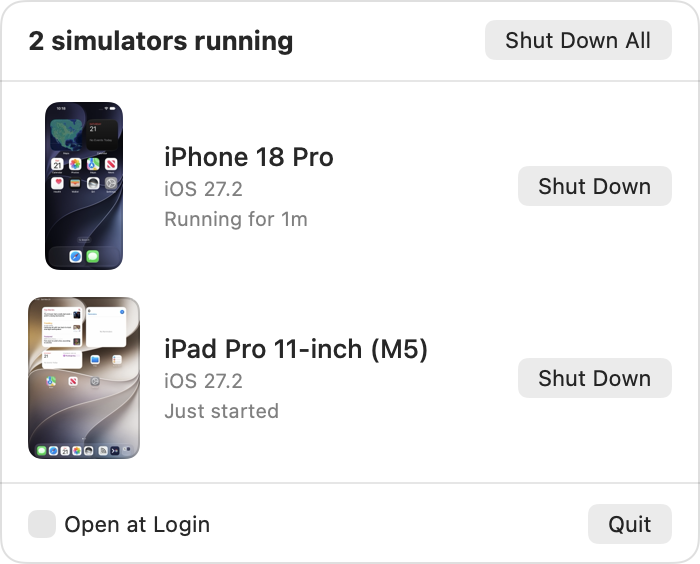
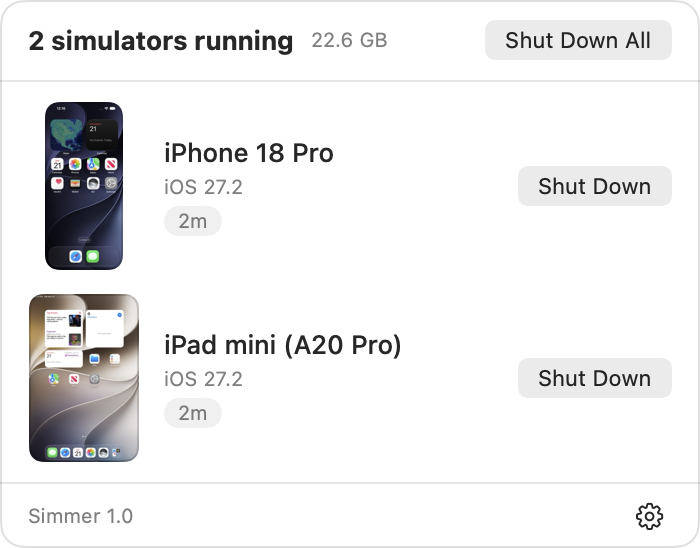
Update the README for the gem, the gear menu, and the disk image

diff --git a/README.md b/README.md
@@ -1,30 +1,32 @@
+<img src="docs/icon.png" width="96" alt="Simmer's icon, a green gem">
+
 # Simmer
 
 A tiny Mac menu bar app that shows which Xcode simulators are running, and lets you shut them down with one click.
 
-<img src="docs/menu.png" width="350" alt="Simmer's menu listing an iPhone and an iPad simulator, each with a picture of its screen and a Shut Down button">
+<img src="docs/menu.png" width="350" alt="Simmer's menu listing an iPhone and an iPad simulator, each with a picture of its screen, how long it has been running, and a Shut Down button">
 
 Simulators are easy to forget. Close the Simulator window, or let Xcode start one for a preview, and it can keep running out of sight for days, heating up your Mac and draining the battery. Simmer keeps a count in your menu bar so you always know.
 
 ## Install
 
-1. **[Download Simmer](https://github.com/mattbirchler/Simmer/releases/latest/download/Simmer.zip)**
-2. Open your Downloads folder and double-click **Simmer.zip**. A **Simmer** app appears next to it.
-3. Drag **Simmer** into your **Applications** folder.
+1. **[Download Simmer](https://github.com/mattbirchler/Simmer/releases/latest/download/Simmer.dmg)**
+2. Open **Simmer.dmg** from your Downloads folder. A window appears with Simmer on the left and your Applications folder on the right.
+3. Drag **Simmer** onto **Applications**.
 4. Open **Simmer** from Applications.
 
-That's it. Look for a small phone icon at the top right of your screen, near the clock. Simmer has no Dock icon and no window, so the menu bar is where it lives.
+That's it. Look for a small gem at the top right of your screen, near the clock. Simmer has no Dock icon and no window, so the menu bar is where it lives.
 
 Simmer needs macOS 14 or newer, and Xcode (which is where simulators come from).
 
 ## Use
 
-- **The number next to the phone icon** is how many simulators are running. No number means none are.
-- **Click the icon** to see each one, with a live picture of what's on its screen and how long it has been running.
+- **The gem** is hollow when nothing is running. When simulators are running it fills in, with a number beside it saying how many.
+- **Click the gem** to see each one, with a live picture of what's on its screen and how long it has been running. The top of the menu shows how much memory they are holding between them.
 - **Click Shut Down** next to a simulator to turn it off, or **Shut Down All** to turn them all off at once.
-- **Tick Open at Login** so Simmer starts by itself whenever you turn on your Mac.
+- **Click the gear** and choose **Open at Login** so Simmer starts by itself whenever you turn on your Mac.
 
-A running time shown in orange means that simulator has been on for more than two hours, which usually means it was forgotten.
+An orange gem, and a running time shown in orange, mean a simulator has been on for more than two hours, which usually means it was forgotten.
 
 ## Questions
 
@@ -32,13 +34,16 @@ A running time shown in orange means that simulator has been on for more than tw
 No. It's the same as choosing Device > Shut Down in the Simulator app. Your apps and their data are still there the next time you start it.
 
 **What do "Xcode Previews" and "Test run" mean?**
-Xcode sometimes starts simulators on its own, to draw SwiftUI previews or to run tests. These never show a window, so they are the easiest to miss. Simmer labels them so you know where they came from. They are safe to shut down. Xcode starts a new one when it needs it.
+Xcode sometimes starts simulators on its own, to draw SwiftUI previews or to run tests. These never show a window, so they are the easiest to miss. Simmer tags them so you know where they came from. They are safe to shut down. Xcode starts a new one when it needs it.
 
 **Does Simmer itself use much battery?**
-No. It takes a quick look at the list of running apps every few seconds, which costs next to nothing. It only takes pictures of simulator screens while its menu is open.
+No. It takes a quick look at the list of running apps every few seconds, which costs next to nothing. It only takes pictures of simulator screens, and adds up their memory, while its menu is open.
+
+**Why is the memory figure so large?**
+It adds up every process running inside each simulator, the same way Activity Monitor's Memory column does, and a simulator is a whole copy of iOS. Memory that macOS has compressed or moved to disk is counted too, so the total can be more than your Mac has installed.
 
 **How do I remove it?**
-Click the icon, choose Quit, then drag Simmer from Applications to the Trash.
+Click the gem, then the gear, choose Quit Simmer, then drag Simmer from Applications to the Trash.
 
 ## For developers
 
@@ -54,7 +59,7 @@ Then press Run in Xcode. No developer account is needed.
 
 How it works: every booted simulator has a `launchd_sim` process whose arguments point into the device's folder. Simmer finds those in the process list, reads the device's name and system version from its `device.plist`, and uses `xcrun simctl` to take screenshots and shut devices down. See [`SimulatorScanner.swift`](Simmer/SimulatorScanner.swift).
 
-The project file is generated from `project.yml` with [XcodeGen](https://github.com/yonaskolb/XcodeGen). If you add or remove files, run `xcodegen generate`. `scripts/release.sh` makes the signed, notarized download.
+The project file is generated from `project.yml` with [XcodeGen](https://github.com/yonaskolb/XcodeGen). If you add or remove files, run `xcodegen generate`. `scripts/release.sh` makes the signed, notarized disk image, and needs [create-dmg](https://github.com/create-dmg/create-dmg) (`brew install create-dmg`). The icon and the disk image's background are drawn by `scripts/make-icon.swift` and `scripts/make-dmg-background.swift`.
 
 Issues and pull requests are welcome.
 
